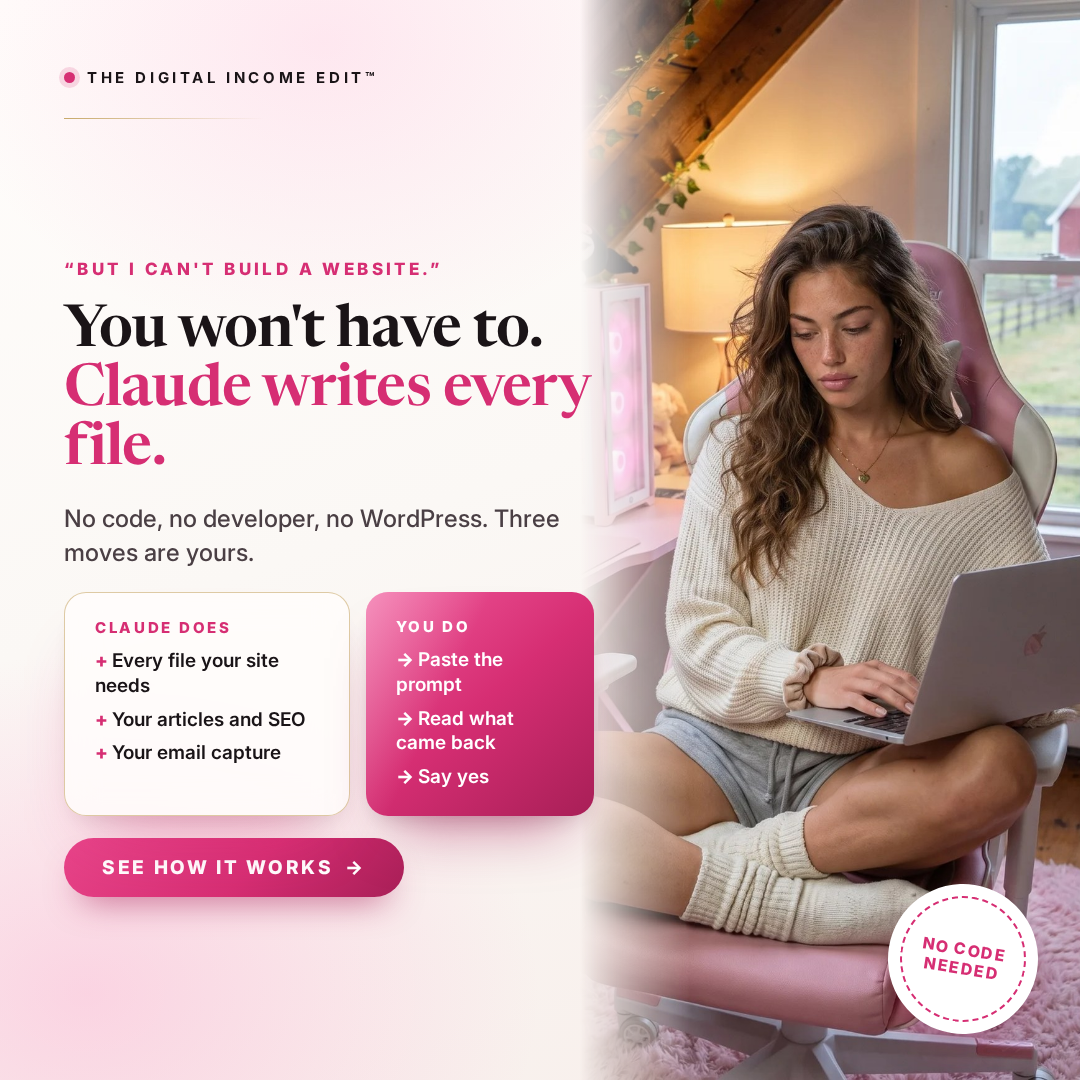
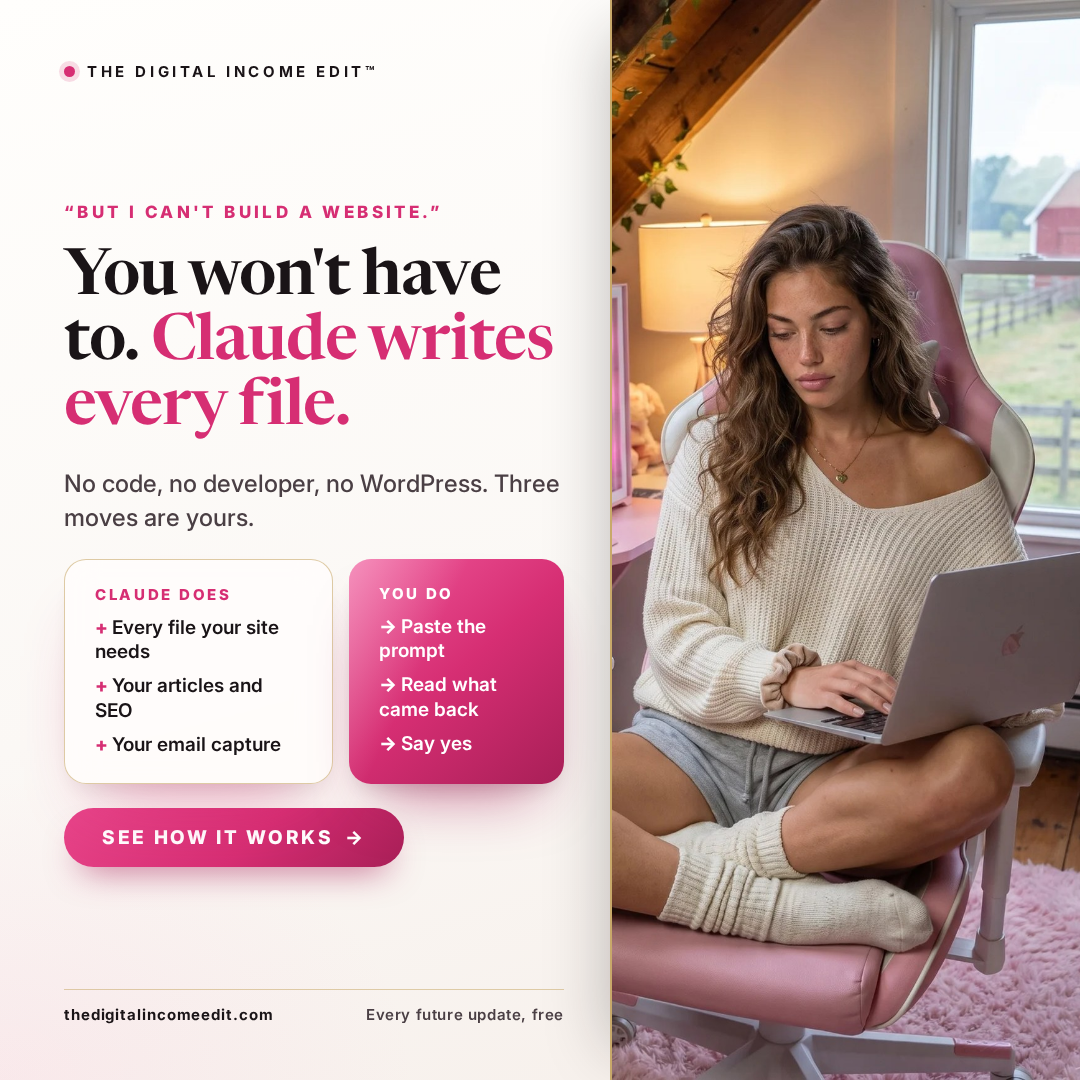
Weekend Ecosystem creatives: premium design pass, preview page fix
All 25 images: no sticker stamps on ads or OG, web address and a true trust line on every image, calm cream background, clean photo seams, larger type, stories rebuilt as full-bleed photo with one frosted card. Preview page: new OG image, toys cropped out of preview-hero.jpg, closing image switched to the porch photo until the two new photos (prompted in PHOTO_PROMPTS.md) are made.

Claude-Session: https://claude.ai/code/session_01V3bZXpB2cDywcujhNH8nhN

diff --git a/ops/cloud-output/we-creatives/PHOTO_PROMPTS.md b/ops/cloud-output/we-creatives/PHOTO_PROMPTS.md
@@ -33,3 +33,38 @@ Camera: photorealistic real-world photography, 50mm lens, natural depth of field
 Negative: no text, no lettering, no logos, no watermarks, no UI on the laptop screen, no marble, no Paris apartment, no picnic-basket styling, no café, no blazer or blouse, no generic luxury interior.
 
 **Pre-generation check (image master section 10):** reference used ✓ · no locked traits described ✓ · her world (pasture, fence line, red barn, gingham, golden retriever) ✓ · tumbler in frame and not the only pink item ✓ · no mug ✓ · right third, left side open ✓ · real light and 50mm ✓ · photorealism language ✓ · no text requested ✓ · not a repeat of any matrix image or any photo in `public/images/we/` (new place: the pasture) ✓
+
+---
+
+# Preview page photos · two new photos (27 September 2026)
+
+`/weekend-ecosystem/preview` uses two attic-loft photos with Hello Kitty and Kuromi plush toys in them (third-party characters, banned) and no glitter tumbler. Until these two are made:
+- `public/images/we/preview-hero.jpg` has been cropped so the toys are out of frame (same file, same size).
+- The closing section shows `cover-sofa.jpg` (the porch photo) instead of `preview-working.jpg`.
+- The page's link preview is the new `public/og/weekend-ecosystem-preview.jpg`.
+
+**Tool:** Google Gemini with the reference sheet `public/images/library/avatar-seed-omni-reference.png` attached. If Gemini is out of credits or the result drifts, Nano Banana Pro at 2K on Higgsfield, same reference attached.
+
+## 1 · preview-hero.jpg (top of the preview page, evening)
+
+**Save as:** `public/images/we/preview-hero.jpg`, 1400 × 1737 JPG. Shown at the top right of the page, cropped to a 560 px tall box centred a third of the way down, with a round sticker on its top-left corner, so her face sits in the upper half and the top-left corner stays quiet.
+
+**Prompt (paste as is):**
+
+Photograph of this exact woman from the attached reference sheet. Identity is taken only from the reference. She is sitting in her pink attic gaming loft on the family farm on an early autumn evening, turned in her pastel pink gaming chair to face the camera, one foot tucked up on the seat and her open laptop on the desk beside her with its screen angled away from the camera, so only the plain back of the lid shows. Her expression is warm and a little conspiratorial, a small closed-lip smile and eyes on the camera, like she is about to show a close friend something she built. Her right hand rests loosely on the desk edge beside the laptop with the fingers relaxed and light contact, and her left hand holds her glitter-flecked pink iced coffee tumbler with a lavender straw in her lap, condensation beading down one side, the tumbler a saturated candy pink, never pale. She wears an oversized candy-pink chunky knit sweater with heavy drape, the sleeves pushed up and bunched at the forearm, soft cream lounge shorts, slouchy cream knit socks and a fine gold chain with a small heart pendant; her hair is worn loose with a gold claw clip holding back one side, the ends catching the window light. Foreground: the corner of the pastel pink desk with the laptop, a lavender Xbox controller, clearly purple-toned and never white or grey, set down beside it, and a mason jar of casually gathered wildflowers with irregular stems. Mid-ground: her in the chair on a plush pink shag rug, a glass-panel PC on a low shelf glowing a soft pink. Background: exposed attic beams wrapped in ivy and a low window with the pasture, a split-rail fence and the red barn in the last warm light. The loft is quiet wealth, lived in: comfortable and well kept, a dog's rope toy at the top of the stairs, nothing expensive on display, nothing arranged for a camera. She is the brand's AI persona, so keep her believable rather than polished: natural imperfections, relaxed posture, no exaggerated influencer pose. Vertical 4:5 frame, she sits centre-right with her face in the upper half of the picture, and the upper left of the picture holds beams and wall with no face and no critical detail. Lighting: warm golden-hour sun through the window behind her left shoulder as a rim light on her hair, a warm table lamp as the key on her face, a low pink glow from the PC as fill on the shadow side. Shot on a 50mm lens at f/1.8 with a slight handheld feel, photorealistic real-world photography, lifelike skin texture, true strand separation, natural imperfections, true-to-life textures on the knit, the old wood and the shag. The laptop is plain and unbranded. No plush toys or stuffed animals anywhere in the room, no cartoon characters, no logos or brand marks, no text or lettering anywhere in the frame, no screen content visible, no extra people, no marble, no Paris apartment, no blazer or blouse. Photorealistic, no filters, no watermarks. 4:5 vertical. Cinematic Tommy realism — warm, inviting, golden.
+
+**Pre-generation check (image master section 10):** reference used ✓ · no locked traits described ✓ · her world (attic loft, beams and ivy, red barn, pasture, wildflowers, lavender controller) ✓ · tumbler in frame and not the only pink item (candy-pink sweater, desk, chair) ✓ · no mug ✓ · face in the upper half, top-left quiet for the sticker ✓ · real light and 50mm ✓ · photorealism language ✓ · no text requested ✓ · no plush toys, unbranded laptop ✓ · different from photo 2 (evening, facing camera, pink knit) ✓
+
+## 2 · preview-working.jpg (closing section, morning)
+
+**Save as:** `public/images/we/preview-working.jpg`, 1400 × 1737 JPG. Shown in the closing card, cropped centre and 40 % down; on phones it becomes a 300 px tall strip across the middle, so her face and hands both sit in the middle band.
+
+**Prompt (paste as is):**
+
+Photograph of this exact woman from the attached reference sheet. Identity is taken only from the reference. She sits cross-legged in her pastel pink gaming chair at the pink desk in her attic loft on a quiet weekday morning, the laptop open on the desk in front of her with its screen angled away from the camera, typing with both hands, eyes down on the keyboard, shoulders dropped and a faint satisfied half smile, like the work is going easily and she knows it. Her hands: both on the keyboard, fingers lightly curved mid-keystroke, wrists relaxed, short bare nails, a soft scrunchie on her left wrist. Her glitter-flecked pink iced coffee tumbler with a lavender straw stands on the desk within reach of her right hand, condensation beading down one side, the tumbler a saturated candy pink, never pale; a lavender Xbox controller, clearly purple-toned and never white or grey, is pushed to the far corner of the desk with a small strawberry charm hanging off it. She wears an oversized oatmeal hoodie in heavy brushed cotton with the hood fallen back and the cuffs pushed up, soft grey lounge shorts and candy-pink fuzzy socks; her hair is in a loose low braid over one shoulder with a few strands escaping at the temple. Foreground: the front edge of the pink desk, the tumbler, a mason jar of casually gathered wildflowers with irregular stems. Mid-ground: her in the chair on a plush pink shag rug. Background: exposed attic beams wrapped in ivy and a window with the red barn and the pasture in cool morning light, a split-rail fence running across the field. The loft is quiet wealth, lived in: well kept and clearly used, a folded quilt over the chair arm, nothing expensive on display, nothing arranged for a camera. She is the brand's AI persona, so keep her believable rather than polished: natural imperfections, relaxed posture, no exaggerated influencer pose. Vertical 4:5 frame with her in the centre of the picture, her face and hands both in the middle band so a wide centre crop still holds them, the window with the red barn to the right of her. Lighting: cool soft daylight from the window as the key from the right, warm low pink glow from a glass-panel PC on the left as fill, the two temperatures meeting across the desk and her forearms. Shot on a 35mm lens at f/2.0 with a slight handheld feel, photorealistic real-world photography, lifelike skin texture, natural imperfections, true-to-life textures on the brushed cotton, the old wood and the shag, dust suspended in the window light. The laptop is plain and unbranded. No plush toys or stuffed animals anywhere in the room, no cartoon characters, no logos or brand marks, no text or lettering anywhere in the frame, no screen content visible, no extra people, no marble, no Paris apartment, no blazer or blouse. Photorealistic, no filters, no watermarks. 4:5 vertical. Cinematic Tommy realism — quiet, easy, early.
+
+**Pre-generation check (image master section 10):** reference used ✓ · no locked traits described ✓ · her world (attic loft, red barn, pasture, split-rail fence, wildflowers, lavender controller with strawberry charm) ✓ · tumbler in frame and not the only pink item (candy-pink socks, desk, chair) ✓ · no mug ✓ · face and hands in the middle band for the phone crop ✓ · real light and 35mm ✓ · photorealism language ✓ · no text requested ✓ · no plush toys, unbranded laptop ✓ · different from photo 1 (morning, typing, hoodie and braid) ✓
+
+## When both photos are made · paste this into a Claude session with the two photos attached
+
+In the repo jodiedeo7-glitch/tdie: the first attached photo is the evening photo facing the camera, the second is the morning photo typing. Look at both at full size first and stop if either has a plush toy, a cartoon character, a logo on the laptop, any text, a missing glitter pink tumbler, or a face that does not match public/images/library/avatar-seed-omni-reference.png. If both pass: resize each to exactly 1400 × 1737 and save as JPG quality 90, the first to public/images/we/preview-hero.jpg and the second to public/images/we/preview-working.jpg. In src/pages/weekend-ecosystem/preview.astro, change the closing-section image from src="/images/we/cover-sofa.jpg" back to src="/images/we/preview-working.jpg" with alt="Working at the pink attic desk on a quiet morning, the red barn visible through the window." width="1400" height="1737". From the repo root run node ops/cloud-output/we-creatives/render.mjs og-weekend-ecosystem-preview ad-preview (Node 22 with Playwright), then open png/og-weekend-ecosystem-preview.png and the four png/ad-preview-*.png files and check her face is fully visible and not behind a card; if it is hidden, change the loftFace positions in ogPreviewHTML and ANGLES.preview in render.mjs and render again. Save png/og-weekend-ecosystem-preview.png as public/og/weekend-ecosystem-preview.jpg at JPG quality 92. Run npx astro build, confirm it passes, commit, and push to main. Report in one line, or name exactly what failed.

diff --git a/ops/cloud-output/we-creatives/README.md b/ops/cloud-output/we-creatives/README.md
@@ -31,6 +31,7 @@ From the description in the job (Jodie's screenshot is not in the repo, so this 
 | beacons-2-what-you-get.png | 1080 × 1080 | attic loft, typing at the desk (`hub-header.jpg`) |
 | beacons-3-review.png | 1080 × 1080 | living room floor, glitter tumbler (clean sofa crop) |
 | beacons-hero-keep-it-running-kit.png | 1080 × 1080 | as the hero, with the Kit card: free until 4 Oct, 11:59 pm Eastern. Swap back to beacons-1-hero on 5 Oct |
+| og-weekend-ecosystem-preview.png | 1200 × 630 | preview-hero + hub-header, preview page link image. Live copy: `public/og/weekend-ecosystem-preview.jpg` |
 | og-weekend-ecosystem-2026-09.png | 1200 × 630 | porch + loft. Every word sits inside the centre 600 px. Live copy: `public/og/weekend-ecosystem-2026-09.jpg` |
 | ad-ideal-* | 4 sizes | porch at sunrise (`cover-sofa.jpg`) |
 | ad-preview-* | 4 sizes | loft, facing camera (`preview-hero.jpg`) |
@@ -40,9 +41,20 @@ From the description in the job (Jodie's screenshot is not in the repo, so this 
 
 Ad sizes: 1080 × 1080, 1080 × 1350, 1080 × 1920 (copy kept between y 250 and 1580 for the Stories safe area), 1200 × 628. Copy for every ad: `AD_COPY.md`. Contact sheet: `CONTACT_SHEET.jpg`.
 
+## 2b · Final design pass (27 Sep 2026)
+
+Brief from Jodie: branded, premium, trustworthy, never a random scam ad. What changed across all 25:
+- **No sticker stamps on any ad or on the OG.** Round "FREE / NO CODE" stamps read as a cold-feed offer. One sticker stays on the Beacons hero and one on the Kit hero.
+- **The web address on every image** (`thedigitalincomeedit.com`) above a thin gold rule, with one true line beside it (e.g. "Every future update, free", "Both options at checkout", "Posted on Skool under her name"). A visible domain is the biggest single trust signal on a paid ad.
+- **Calm cream background.** The pink glows are gone; pink now lives only in the turn words, the one hero card and the button.
+- **Clean photo edges.** The photo is a crisp panel with a gold seam and a soft shadow instead of fading into pink.
+- **Bigger, better-spaced type.** Square headlines 58→64 px, 4:5 62→70 px, landscape 46→50 px. Copy is centred in its column with brand at the top and the address at the foot.
+- **Stories rebuilt.** Full-bleed photo with her face in the top half and all copy on one frosted card between y 250 and 1580.
+- Toy check redone on every crop after the changes (the build ads were tightened to drop a Kuromi ear).
+
 ## 3 · Things to know
 
 - **Third-party toys.** Several loft photos have Hello Kitty and Kuromi plush toys in them (Sanrio characters). Every crop in this set was placed to keep them out, and the story crops were zoomed for it. Guardrail: no third-party IP. The same photos are live on the sales and preview pages, which this job did not change.
 - **Tumbler rule.** The older loft and porch photos show the Player Two? mug, not the glitter tumbler; they predate the 26 Sep rule. The review images and the new pasture photo carry the tumbler.
-- **Preview page OG.** Only the sales page was pointed at the new OG image, as the job asked. `/weekend-ecosystem/preview` still uses `/og/weekend-ecosystem.jpg` (the older office photo, off-brand under the design rules).
+- **Preview page (fixed 27 Sep 2026).** New link preview `public/og/weekend-ecosystem-preview.jpg` (rendered here as `og-weekend-ecosystem-preview.png`). `preview-hero.jpg` cropped to take the toys out; the closing image temporarily shows the porch photo. Two replacement photos are prompted in `PHOTO_PROMPTS.md`, with the paste-ready finish instruction.
 - **Tina's review** is the approved `pull` cut from `src/we-reviews.js`, verbatim, "word press" spelling kept.
